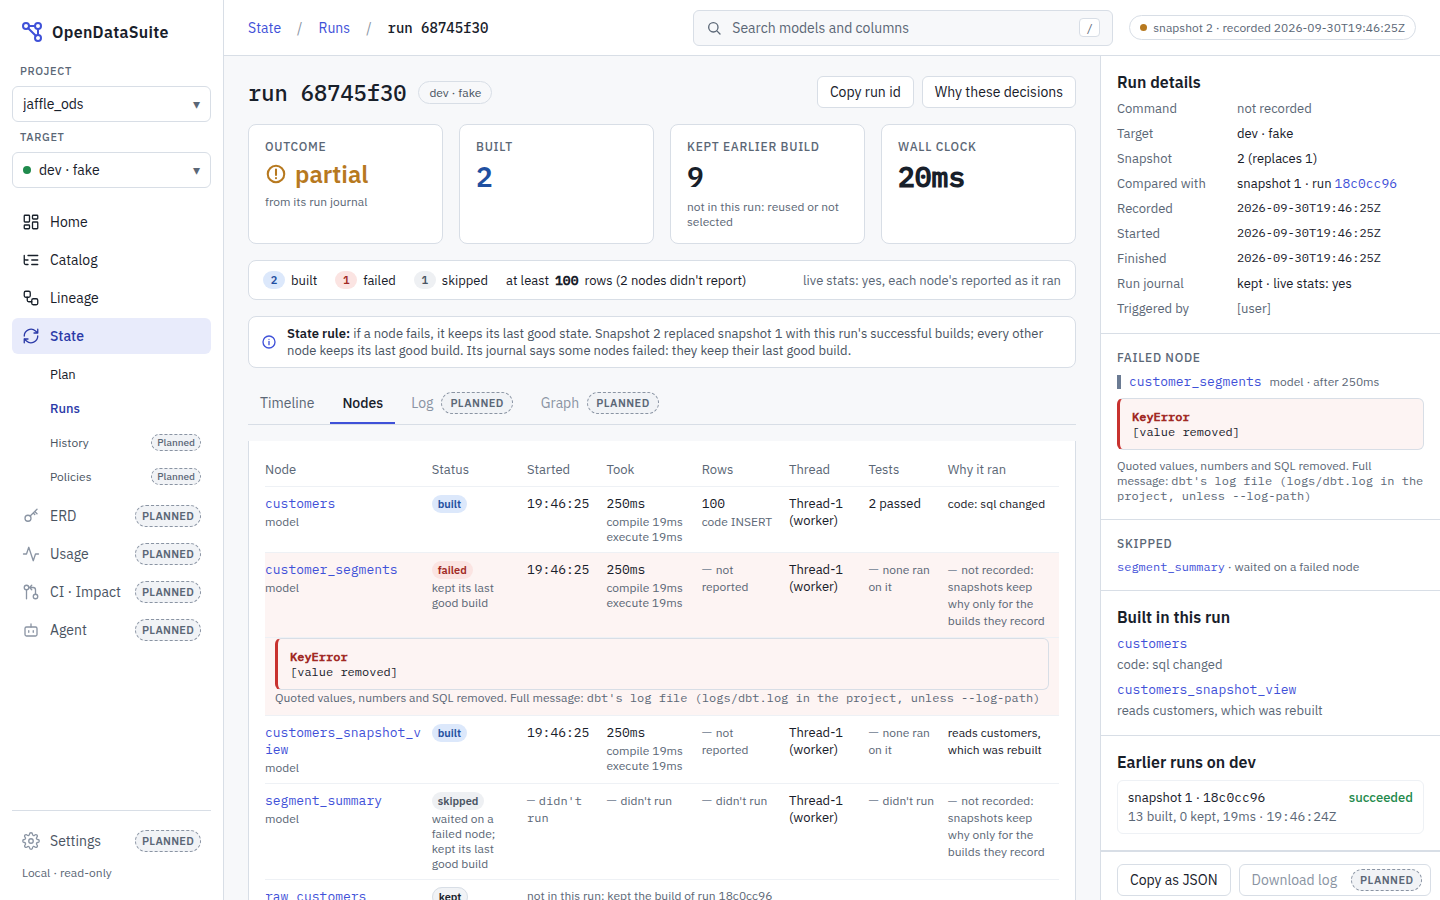
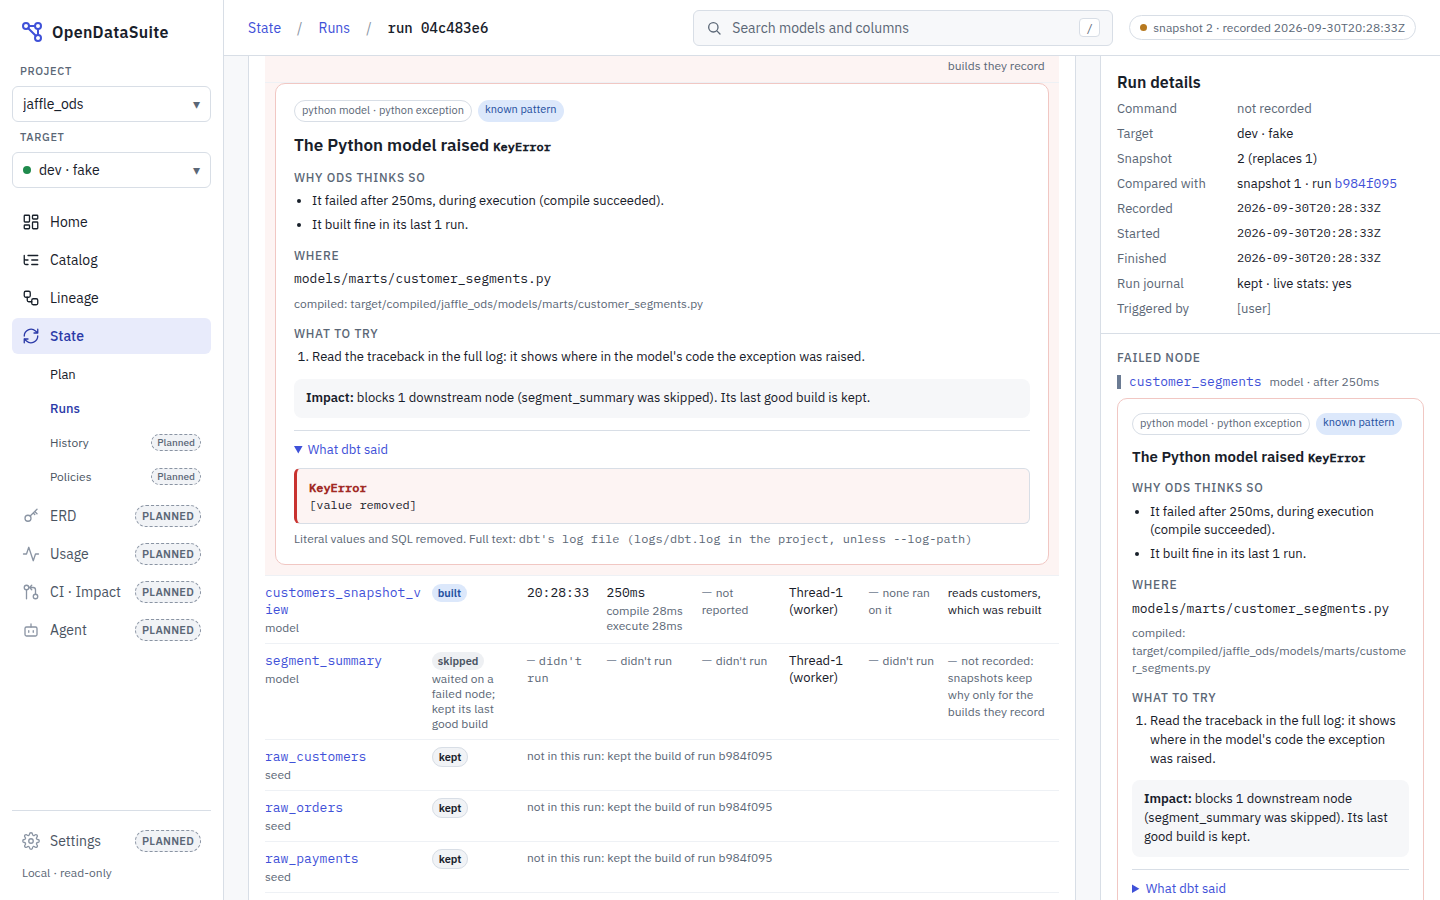
docs: re-record the runs tour with the failed node explained
The tour's last step opens the explanation's "What dbt said" disclosure;
its stills and the animated WebP now show the card.

Part of #323

Claude-Session: https://claude.ai/code/session_019o28ABji7oKrHhDj6a9qF6

diff --git a/docs/cli.md b/docs/cli.md
@@ -634,7 +634,7 @@ ods state build        # record a run first, if you haven't
 ods serve              # then open http://127.0.0.1:8765/
 ```
 
-![A tour of ods serve: Home, the Runs page, and a partial run's nodes with the failed node's redacted error](assets/recordings/dashboard/runs/runs.webp)
+![A tour of ods serve: Home, the Runs page, and a partial run's nodes with the failed node explained](assets/recordings/dashboard/runs/runs.webp)
 
 Home shows:
 - **tiles:** the planned nodes by kind; how many nodes the last run built, and how many
